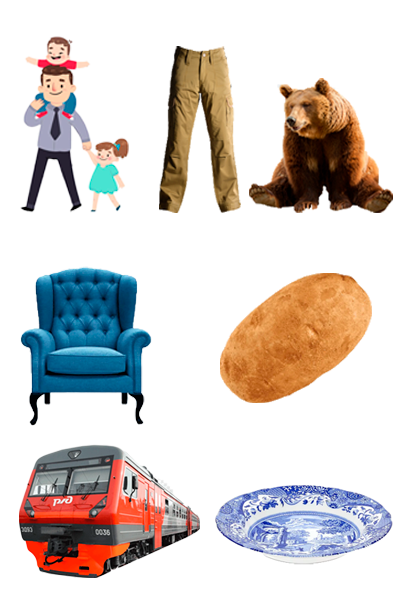
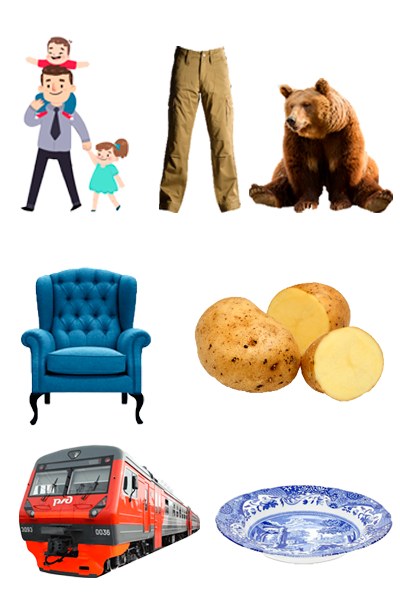
fixed

Changed region(s): [[0.48, 0.45, 0.96, 0.69]]

diff --git a/lib/app/modules/test/views/test_view.dart b/lib/app/modules/test/views/test_view.dart
@@ -194,7 +194,7 @@ class _TestScreenState extends State<TestScreen> {
         {"question": "Посмотри и покажи, что летит", "answer": true, "image": "assets/task4/3задание6-7лет.png"},
         {"question": "Посмотри и покажи, кто играет в футбол", "answer": true, "image": "assets/task4/3задание6-7лет.png"},
         {"question": "Посмотри и покажи, где она круглая, твёрдая, хрупкая", "answer": true, "image": "assets/task4/4задание6-7лет.png"},
-        {"question": "Посмотри и покажи, что летит", "answer": true, "image": "assets/task4/4задание6-7лет.png"}
+        {"question": "Посмотри и покажи, где он круглый, твёрдый, съедобный", "answer": true, "image": "assets/task4/4задание6-7лет.png"}
       ],
       "Zadanie4.3": [
         {"question": "Посмотри и покажи, где утро", "answer": true, "image": "assets/task4/1задание7-9лет.png"},
